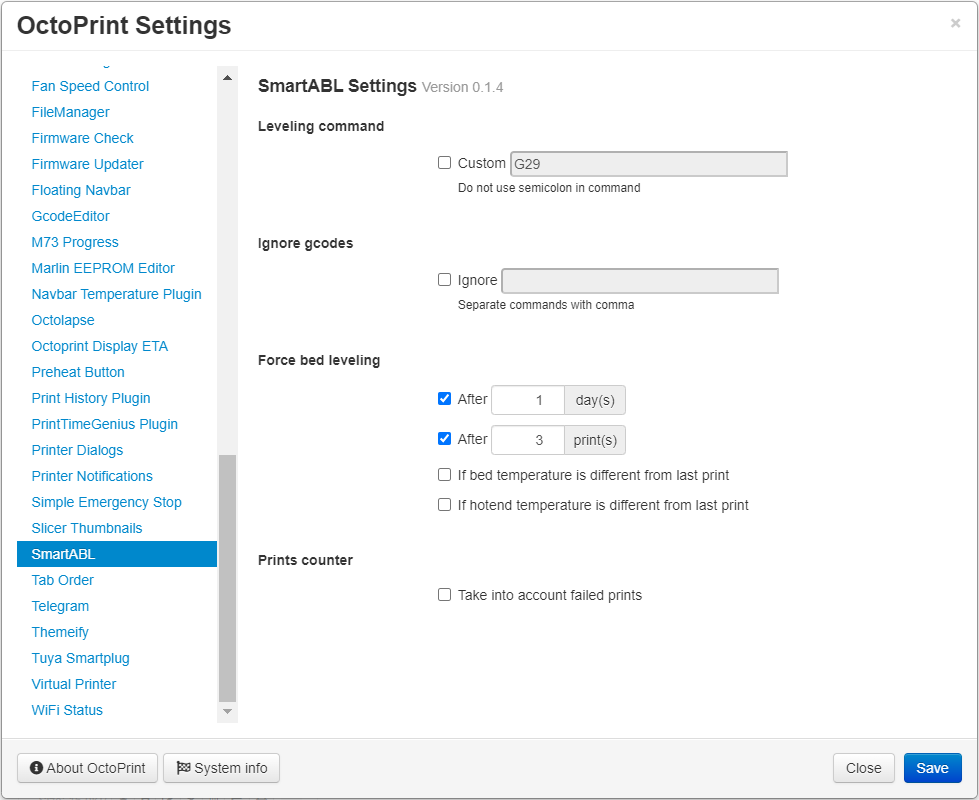
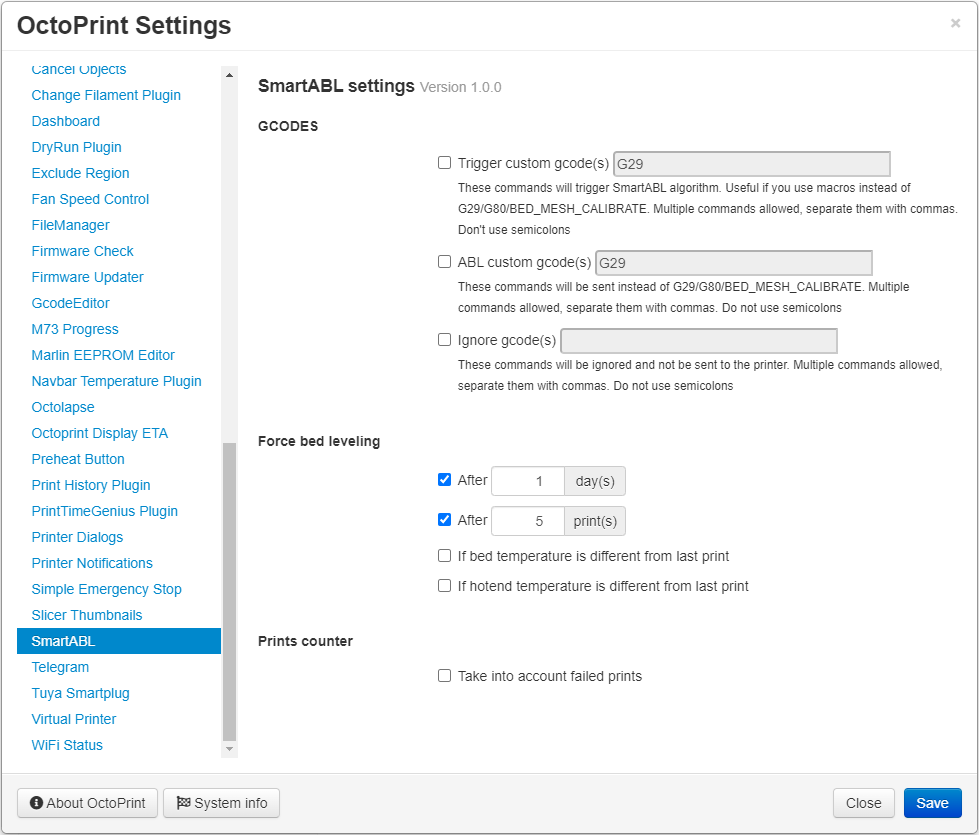
Added custom trigger gcode for abl. Added compatibility with prusa buddy. Fixed SemVer for 0.5.x

diff --git a/octoprint_SmartABL/static/js/SmartABL.js b/octoprint_SmartABL/static/js/SmartABL.js
@@ -12,7 +12,7 @@ $(function() {
         $(function() {
         	var btnGroupSmartABL = `<div id='job_smartABL' class='btn-group smartabl' data-toggle='buttons-radio'>
                                         <button id='smartABL_restricted' type='button' class='btn smartabl-radio'><i class='fa fa-crosshairs'></i><span> ABL Restricted</span></button>
-                                        <button id='smartABL_counter' class='btn btn-info disabled'>?</button>
+                                        <button id='smartABL_counter' class='btn btn-info smartabl-counter disabled'>?</button>
                                         <button id='smartABL_always' type='button' class='btn smartabl-radio'><i class='fa fa-crosshairs'></i><span> ABL Always</span></button>
                                     </div>`;
             var btn_last_job = $('#job_print').parent().children().last();

diff --git a/octoprint_SmartABL/static/css/SmartABL.css b/octoprint_SmartABL/static/css/SmartABL.css
@@ -7,6 +7,10 @@
     width: 44.8%;
 }
 
+.smartabl-counter {
+    width: 10.4%;
+}
+
 .smartabl-addon {
     width: 50px !important;
 }

diff --git a/octoprint_SmartABL/__init__.py b/octoprint_SmartABL/__init__.py
@@ -102,8 +102,10 @@ class SmartABLPlugin(
     # SettingsPlugin
     def get_settings_defaults(self):
         return dict(
-            cmd_custom=False,
-            custom_gcode="G29",
+            trigger_custom=False,
+            trigger_gcode="G29",
+            abl_custom=False,
+            abl_gcode="G29",
             cmd_ignore=False,
             ignore_gcode="",
             force_days=True,
@@ -238,7 +240,7 @@ class SmartABLPlugin(
                     cmds = [self.fw_metadata[self.firmware]["abl"]]
                 else:
                     cmds = [self.last_cmd]
-                if self._get("cmd_custom"):
+                if self._get("abl_custom"):
                     cmds = self._gcodes_custom()
                 if self.save_allowed:
                     self.cache.add(self.fw_metadata[self.firmware]["save"])
@@ -273,16 +275,27 @@ class SmartABLPlugin(
                 )
                 idx = line.find("FIRMWARE_NAME")
                 for fw_n in self.fw_metadata:
-                    # Workaround to detect Prusa and not Marlin
-                    if fw_n in line[idx : idx + 30].lower():
-                        self.firmware = fw_n
-                        if self.firmware != "marlin":
+                    pattern = line[idx : idx + 40].lower()
+                    if fw_n in pattern:
+                        buddy = False
+                        if "buddy" in pattern:
+                            self.firmware = "marlin"
+                            buddy = True
+                        else:
+                            self.firmware = fw_n
+                        if self.firmware != "marlin" or buddy:
                             self.save_allowed = False
                             self.probe_required = True
-                        self._smartabl_logger.debug(
-                            f"@process_line:detected_firmware >> {fw_n} > "
-                            f"{self._dbginternal()}"
-                        )
+                        if buddy:
+                            self._smartabl_logger.debug(
+                                f"@process_line:detected_firmware >> "
+                                f"prusa-buddy > {self._dbginternal()}"
+                            )
+                        else:
+                            self._smartabl_logger.debug(
+                                f"@process_line:detected_firmware >> "
+                                f"{fw_n} > {self._dbginternal()}"
+                            )
                         break
                 else:
                     self._smartabl_logger.debug(
@@ -387,15 +400,24 @@ class SmartABLPlugin(
         ).days
 
     def _gcodes_abl(self):
-        return [fw["abl"] for fw in self.fw_metadata.values()] + [
-            self.fw_metadata["marlin"]["load"].split()[0]
-        ]
+        if self._get("trigger_custom"):
+            return [
+                gc.strip() for gc in self._get("trigger_gcode", "s").split(",")
+            ]
+        else:
+            if self.firmware != "marlin":
+                return [self.fw_metadata[self.firmware]["abl"]]
+            else:
+                return [
+                    self.fw_metadata[self.firmware]["abl"],
+                    self.fw_metadata[self.firmware]["load"].split()[0],
+                ]
 
     def _gcodes_temp(self):
         return [self.temp[tmp] for tmp in self.temp]
 
     def _gcodes_custom(self):
-        return [gc.strip() for gc in self._get("custom_gcode", "s").split(",")]
+        return [gc.strip() for gc in self._get("abl_gcode", "s").split(",")]
 
     def _gcodes_ignore(self):
         return [gc.strip() for gc in self._get("ignore_gcode", "s").split(",")]
@@ -417,9 +439,11 @@ class SmartABLPlugin(
     def _dbgsettings(self):
         return (
             f"Settings("
-            f"cmd_custom={self._get('cmd_custom')}, "
-            f"custom_gcode={self._get('custom_gcode', 's')}, "
-            f"cmd_ignore={self._get('cmd_custom')}, "
+            f"trigger_custom={self._get('trigger_custom')}, "
+            f"trigger_gcode={self._get('trigger_gcode', 's')}, "
+            f"abl_custom={self._get('abl_custom')}, "
+            f"abl_gcode={self._get('abl_gcode', 's')}, "
+            f"cmd_ignore={self._get('abl_custom')}, "
             f"ignore_gcode={self._get('ignore_gcode', 's')}, "
             f"force_days={self._get('force_days')}, "
             f"days={self._get('days', 'i')}, "

diff --git a/setup.py b/setup.py
@@ -14,7 +14,7 @@ plugin_package = "octoprint_SmartABL"
 plugin_name = "OctoPrint-SmartABL"
 
 # The plugin's version. Can be overwritten within OctoPrint's internal data via __plugin_version__ in the plugin module
-plugin_version = "0.5.2"
+plugin_version = "1.0.0"
 
 # The plugin's description. Can be overwritten within OctoPrint's internal data via __plugin_description__ in the plugin
 # module

diff --git a/plugins.octoprint.org/SmartABL.md b/plugins.octoprint.org/SmartABL.md
@@ -3,7 +3,7 @@ layout: plugin
 
 id: SmartABL
 title: SmartABL
-description: Simple plugin to improve auto bed leveling, adding some conditions in order to minimize the number of ABLs triggered.
+description: Simple plugin to reduce the number of ABLs triggered.
 authors:
 - scmanjarrez
 license: AGPLv3
@@ -24,7 +24,11 @@ tags:
 - mesh
 - probe
 - bilinear
+- unified
 - marlin
+- prusa
+- prusa-buddy
+- klipper
 
 featuredimage: /assets/img/plugins/SmartABL/settings.png
 
@@ -36,48 +40,74 @@ compatibility:
   - windows
   - macos
   - freebsd
-
   python: ">=3,<4"
 
 ---
 
 # SmartABL
-
 ## How it works?
+The plugin reads `ABL_CMD`<sup>1</sup> from your print file and check the bed mesh
+in memory<sup>M</sup>.
+- If mesh is updated, `M420 S1`<sup>M</sup> is sent in order to load bed mesh from memory.
+- If mesh is outdated or doesn't exist, `ABL_CMD` is sent in order to generate a new mesh.
+On Marlin, `M500` is also sent to save the mesh on the eeprom.
 
-The plugin reads `G29*` from ***.gcode** and check the bed mesh
-in memory.
-- If mesh is updated, `M420 S1` is sent in order to load bed mesh from memory.
-- If mesh is outdated or doesn't exist, `G29*` and `M500` are sent in order to
-generate a new mesh and save it to eeprom, respectively.
-> *: By default, the same ABL command read from your file is sent to the printer.
+> <sup>1</sup>: `ABL_CMD` can be `G29` (Marlin/Prusa-buddy), `G80` (Prusa)
+> or `BED_MESH_CALIBRATE` (Klipper). This can be customized in SmartABL settings.
+
+> Warning: Prusa and Klipper require at least 1 ABL to track the state.
+
+> Note: By default, the standard ABL command for each firmware triggers SmartABL algorithm,
+> however, you can customize this behaviour in settings: the command that triggers the algorithm, the command sent
+> to the printer or even ignore commands.
 
 References:
-- [G29](https://marlinfw.org/docs/gcode/G029.html)
-- [M420](https://marlinfw.org/docs/gcode/M420.html)
-- [M500](https://marlinfw.org/docs/gcode/M500.html)
+- [G29<sup>M,B</sup>](https://marlinfw.org/docs/gcode/G029.html)
+- [M420<sup>M,B</sup>](https://marlinfw.org/docs/gcode/M420.html)
+- [M500<sup>M</sup>](https://marlinfw.org/docs/gcode/M500.html)
+- [G80<sup>P</sup>](https://reprap.org/wiki/G-code#G80:_Mesh-based_Z_probe)
+- [G81<sup>P</sup>](https://reprap.org/wiki/G-code#G81:_Mesh_bed_leveling_status)
+- [BED\_MESH\_CALIBRATE<sup>K</sup>](https://www.klipper3d.org/Bed_Mesh.html#calibration)
+- [BED\_MESH\_OUTPUT<sup>K</sup>](https://www.klipper3d.org/Bed_Mesh.html#output)
+
 
 Credits to [Oscar](https://3dprinting.stackexchange.com/a/15953/27154)
 for the idea.
 
+## Compatibility
+- Marlin (M)
+- Prusa (P)
+- Prusa-buddy (B)
+- Klipper (K)
+
+> Want your firmware to be compatible? Open an Issue on github so we can add it 🙂
+>
+> Don't forget to upload plugin_SmartABL.log!!
+
 ## Configuration
-
-By default, SmartABL **does not change** the behaviour of the
-auto bed leveling. User *must* change default values in settings:
-
 ### Settings panel
-
-**Leveling command**
-- Ignore gcode read from files and send a custom gcode instead.
+**GCODES**
+- Trigger custom gcode(s): By default, SmartABL only triggers with the standard ABL
+commands, i.e. `G29/G80/BED_MESH_CALIBRATE`. However, you can define here
+a list of gcodes that can trigger SmartABl, e.g. macros or non-standard commands.
 Default: disabled (G29).
 
+- ABL custom gcode(s): By default, SmartABL sends the standard ABL
+commands, i.e. `G29/G80/BED_MESH_CALIBRATE`. However, you can define here
+a list of gcodes that will be sent instead, e.g. macros or non-standard commands.
+Default: disabled (G29).
+
+- Ignore gcode(s): Define here if you want to skip gcodes. The commands defined here
+won't be sent to the printer.
+Default: disabled.
+
 **Force bed leveling**
-- After `#` days. Default: disabled (1).
-- After `#` prints. Default: disabled (5).
+- After `#` days. Default: enabled (1).
+- After `#` prints. Default: enabled (5).
 - If current print bed temperature is different from last print.
-Default: disabled.
+Default: enabled.
 - If current print hotend temperature is different from last print.
-Default: disabled.
+Default: enabled.
 
 **Prints counter**
 - Take into account failed prints in the counter.
@@ -88,9 +118,10 @@ Default: disabled (only successful prints increase the counter).
 </div>
 
 ### Side panel
-
 - **ABL Restricted**: Normal behaviour, the plugin chooses when to trigger ABL
 based on your settings.
+
+- **P/FP**: Number of current prints/Number of prints to force ABL.
 
 - **ABL Always**: Ignore settings; the plugin always trigger ABL. Handy when you
 need to force-update your mesh.

diff --git a/README.md b/README.md
@@ -1,28 +1,25 @@
 # SmartABL
-
-Simple plugin to improve auto bed leveling, adding some conditions
-in order to minimize the number of ABLs triggered.
+Simple plugin to reduce the number of ABLs triggered.
 
 ## How it works?
-
-The plugin reads `ABL_CMD`<sup>1</sup> from ***.gcode** and check the bed mesh
+The plugin reads `ABL_CMD`<sup>1</sup> from your print file and check the bed mesh
 in memory<sup>M</sup>.
 - If mesh is updated, `M420 S1`<sup>M</sup> is sent in order to load bed mesh from memory.
 - If mesh is outdated or doesn't exist, `ABL_CMD` is sent in order to generate a new mesh.
 On Marlin, `M500` is also sent to save the mesh on the eeprom.
 
-> <sup>1</sup>: ABL_CMD can be `G29` (Marlin), `G80` (Prusa) or `BED_MESH_CALIBRATE` (Klipper).
+> <sup>1</sup>: `ABL_CMD` can be `G29` (Marlin/Prusa-buddy), `G80` (Prusa)
+> or `BED_MESH_CALIBRATE` (Klipper). This can be customized in SmartABL settings.
 
-> <sup>M</sup>: Marlin-only compatible.
+> Warning: Prusa and Klipper require at least 1 ABL to track the state.
 
-> Note: Prusa and Klipper require at least 1 ABL to track the state.
-
-> Note: By default, the same ABL command read from your file is sent to the printer, but
-> can be customized in SmartABL settings.
+> Note: By default, the standard ABL command for each firmware triggers SmartABL algorithm,
+> however, you can customize this behaviour in settings: the command that triggers the algorithm, the command sent
+> to the printer or even ignore commands.
 
 References:
-- [G29<sup>M</sup>](https://marlinfw.org/docs/gcode/G029.html)
-- [M420<sup>M</sup>](https://marlinfw.org/docs/gcode/M420.html)
+- [G29<sup>M,B</sup>](https://marlinfw.org/docs/gcode/G029.html)
+- [M420<sup>M,B</sup>](https://marlinfw.org/docs/gcode/M420.html)
 - [M500<sup>M</sup>](https://marlinfw.org/docs/gcode/M500.html)
 - [G80<sup>P</sup>](https://reprap.org/wiki/G-code#G80:_Mesh-based_Z_probe)
 - [G81<sup>P</sup>](https://reprap.org/wiki/G-code#G81:_Mesh_bed_leveling_status)
@@ -34,14 +31,16 @@ Credits to [Oscar](https://3dprinting.stackexchange.com/a/15953/27154)
 for the idea.
 
 ## Compatibility
-- Marlin
-- Prusa
-- Klipper
+- Marlin (M)
+- Prusa (P)
+- Prusa-buddy (B)
+- Klipper (K)
 
-> Want your firmware to be compatible? Open an Issue on github so we can add compatibility 😊
+> Want your firmware to be compatible? Open an Issue on github so we can add it 🙂
+>
+> Don't forget to upload plugin_SmartABL.log!!
 
 ## Setup
-
 Install via the bundled [Plugin Manager](https://docs.octoprint.org/en/master/bundledplugins/pluginmanager.html)
 or manually using this URL:
 
@@ -49,13 +48,20 @@ or manually using this URL:
 
 ## Configuration
 ### Settings panel
-
-**Leveling command**
-- Ignore gcode read from files and send a custom gcode instead.
+**GCODES**
+- Trigger custom gcode(s): By default, SmartABL only triggers with the standard ABL
+commands, i.e. `G29/G80/BED_MESH_CALIBRATE`. However, you can define here
+a list of gcodes that can trigger SmartABl, e.g. macros or non-standard commands.
 Default: disabled (G29).
 
-**Ignore gcodes**
-- Skip gcodes listed here.
+- ABL custom gcode(s): By default, SmartABL sends the standard ABL
+commands, i.e. `G29/G80/BED_MESH_CALIBRATE`. However, you can define here
+a list of gcodes that will be sent instead, e.g. macros or non-standard commands.
+Default: disabled (G29).
+
+- Ignore gcode(s): Define here if you want to skip gcodes. The commands defined here
+won't be sent to the printer.
+Default: disabled.
 
 **Force bed leveling**
 - After `#` days. Default: enabled (1).
@@ -74,7 +80,6 @@ Default: disabled (only successful prints increase the counter).
 </div>
 
 ### Side panel
-
 - **ABL Restricted**: Normal behaviour, the plugin chooses when to trigger ABL
 based on your settings.
 
@@ -99,7 +104,6 @@ Thank you [jneilliii](https://github.com/jneilliii) and [foosel](https://github.
 for your continuous help!
 
 ## License
-
     OctoPrint-SmartABL  Copyright (C) 2022-2023 scmanjarrez.
     This program comes with ABSOLUTELY NO WARRANTY; for details check below.
     This is free software, and you are welcome to redistribute it
